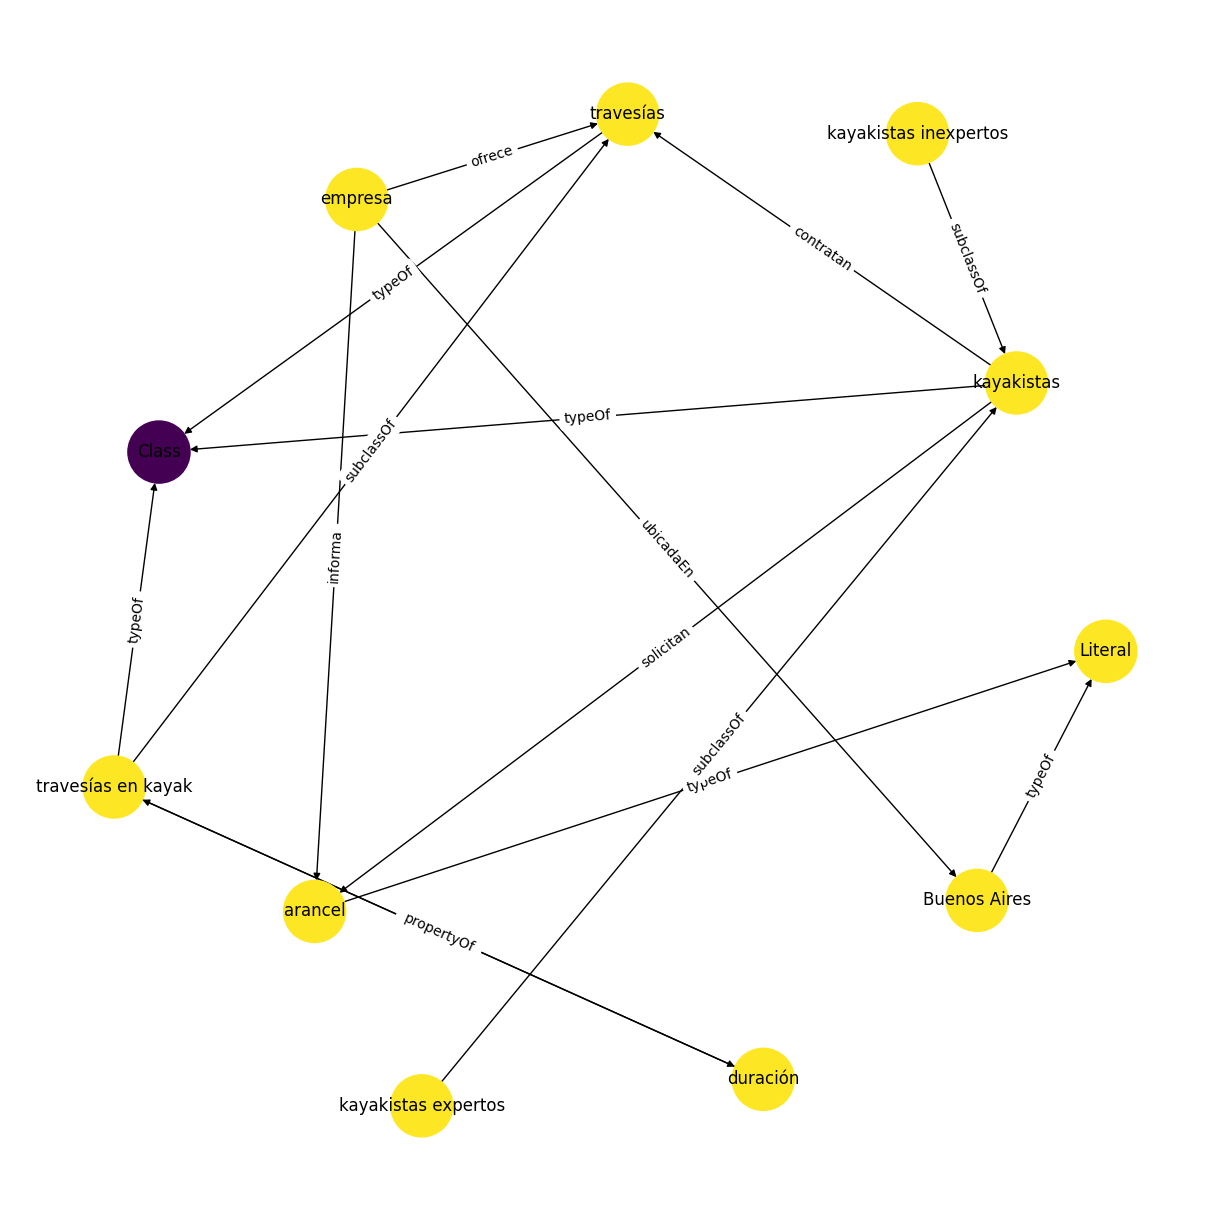
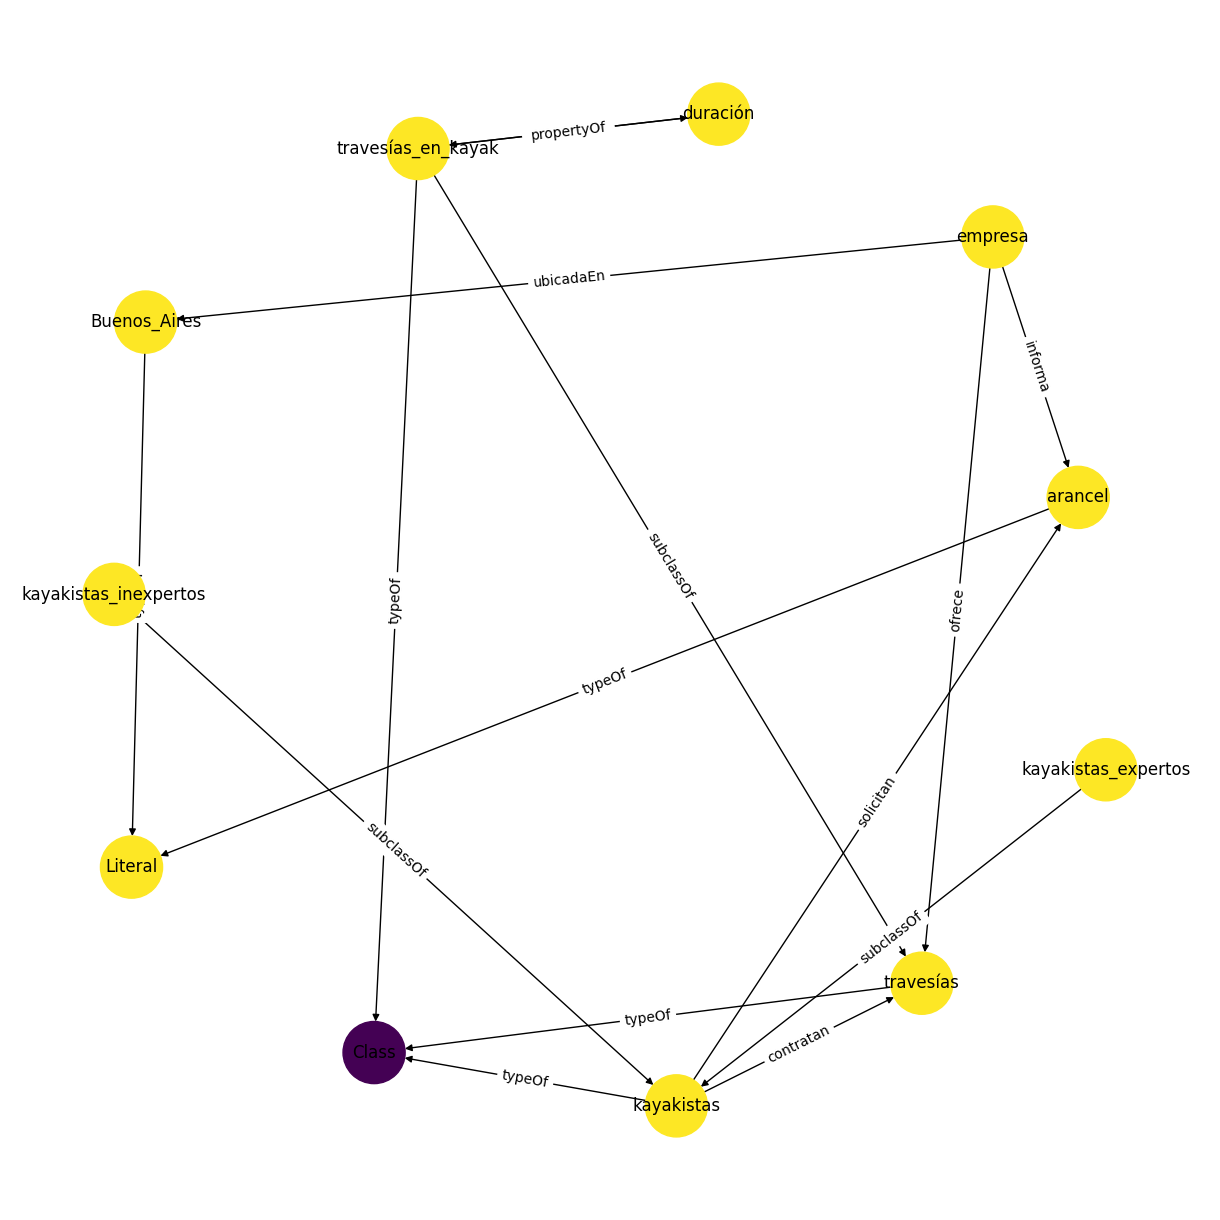
rdf

diff --git a/Tool.py b/Tool.py
@@ -5,7 +5,12 @@ import pandas as pd
 import spacy
 from spacy.matcher import Matcher
 
+from rdflib import Graph, Literal, Namespace
+from rdflib.namespace import OWL, RDF, RDFS, XSD
+
 NLP = spacy.load("es_core_news_md")
+
+PREFIX = Namespace("https://example.org/")
 
 # ruler = NLP.add_pipe("entity_ruler")
 # ruler.add_patterns([{'label': 'ORG', 'pattern': 'Hoy duermo afuera'}])
@@ -90,35 +95,36 @@ def getObjectsFromSentence(sentence):
 
 
 def getSentenceEnts(sentence):
-    return [ent.text for ent in sentence.ents]
+    return [ent.text.replace(" ", "_") for ent in sentence.ents]
 
 
 def getEntityFromSubject(sentence, pair, pos_verb):
     # sujeto | entidades reconocidas - matcher
     recognizedEntities = getSentenceEnts(sentence[0:pos_verb])
     if len(recognizedEntities) >= 1:  # if there are recognized entities
-        pair.append(recognizedEntities[0])
+        entity= recognizedEntities[0]
     else:
         _, start, end = MATCHER(sentence[0:pos_verb])[-1]
-        pair.append(sentence[start:end].text)  # add the last span
+        entity=sentence[start:end].text  # add the last span
 
+    pair.append(entity.replace(" ", "_"))
 
 def getEntityFromPredicate(sentence, pair, pos_verb):
     # predicado | entidades reconocidas - objeto - casos extras
     recognizedEntities = getSentenceEnts(sentence[pos_verb : len(sentence)])
+    
     if len(recognizedEntities) >= 1:
-        pair.append(recognizedEntities[0])
+        entity=recognizedEntities[0]
     elif getObjectsFromSentence(sentence) != "":
-        pair.append(getObjectsFromSentence(sentence))
+        entity= getObjectsFromSentence(sentence)
     else:
-        pair.append(
-            [
+        entity=[
                 token.text
                 for token in sentence
                 if token.dep_ == "ROOT" and token.pos_ == "NOUN"
             ][0]
-        )
-
+        
+    pair.append(entity.replace(" ", "_"))
 
 def getEntities(sentence):
     pos_verb = getVerbPosition(sentence)
@@ -193,6 +199,7 @@ def get_all_entities(sentence_list):
 
 def generate_nodes(sentence_list):
     result = []
+    g = Graph()
     for sentence in sentence_list:
 
         relation = getRelation(sentence)
@@ -205,17 +212,25 @@ def generate_nodes(sentence_list):
         if does_it_imply_propriety(relation):
             result.append((entities[0], "hasProperty", entities[1]))
             result.append((entities[1], "propertyOf", entities[0]))
+            g.add((PREFIX[entities[1]], RDF.type, OWL.ObjectProperty))
+            g.add((PREFIX[entities[1]], RDFS.domain, PREFIX[entities[0]]))
 
             # si tiene propiedad, entonces va a ser clase
             result.append((entities[0], "typeOf", "Class"))
+            g.add((PREFIX[entities[0]], RDF.type, OWL.Class))
 
         elif does_it_imply_subclass(relation):  # este es para subclases
             result.append((entities[0], "subclassOf", entities[1]))
             result.append((entities[1], "typeOf", "Class"))
+            g.add((PREFIX[entities[0]], RDFS.subClassOf, PREFIX[entities[1]]))
+            g.add((PREFIX[entities[1]], RDF.type, OWL.Class))
 
         else:  # este es para las normales
-            triples = (entities[0], relation.replace(" ", ""), entities[1])
+            relation= relation.replace(" ", "")
+            triples = (entities[0], relation, entities[1])
             result.append(triples)
+            g.add((PREFIX[relation], RDF.type, OWL.ObjectProperty))
+            g.add((PREFIX[entities[0]], PREFIX[relation], PREFIX[entities[1]]))
 
     nodes_with_properties = set(map(lambda triple: triple[0], result))
     literals = filter(
@@ -231,6 +246,7 @@ def generate_nodes(sentence_list):
 def cosasParaHacerElGrafo(sentence_list):
     dataset = generate_nodes(sentence_list)
     printGraph(dataset)
+    # graph.serialize("data/output.ttl", format="turtle", encoding="utf-8")
     return dataset
 
 
